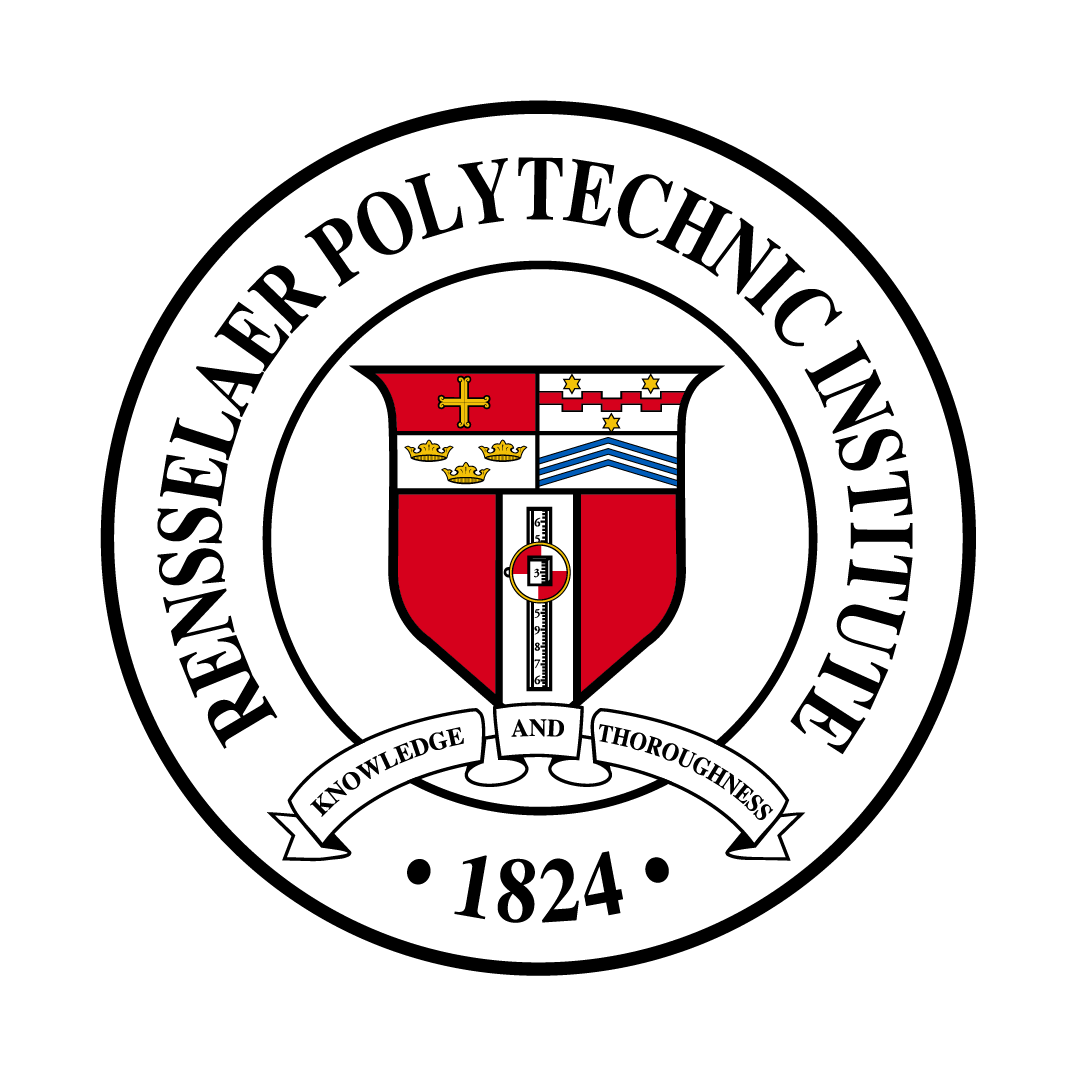
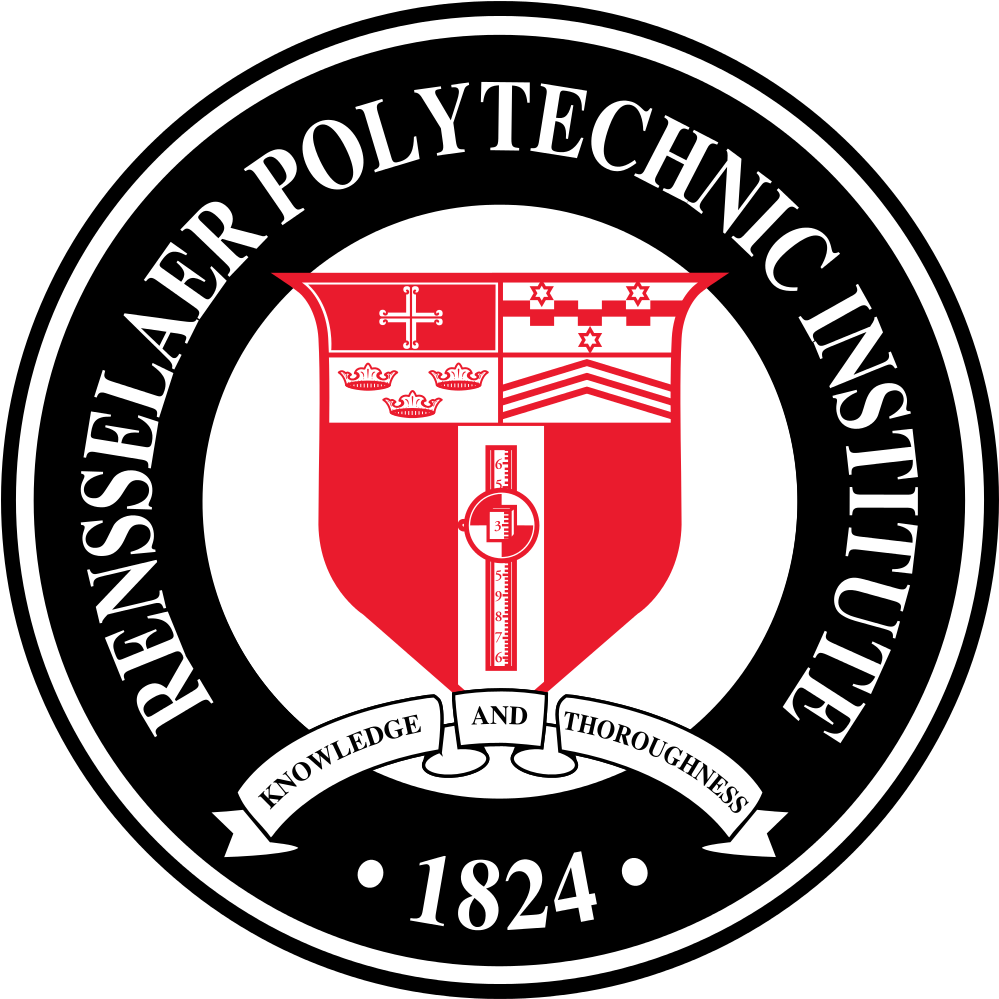
Fully Implemented Dark Mode
Now includes a toggle in the sidebar.

diff --git a/_layouts/default.html b/_layouts/default.html
@@ -11,6 +11,9 @@
             // grab or default to 'light'
             const m = localStorage.getItem('site_mode') || 'light';
             document.documentElement.setAttribute('data-theme', m);
+            document.getElementById('site-logo').src = (m === 'dark')
+            ? document.getElementById('site-logo').dataset.dark
+            : document.getElementById('site-logo').dataset.light;
             })();
         </script>
 
@@ -52,7 +55,6 @@
 
     <body>
         <a href="https://github.com/Submitty" class="github-corner" aria-label="View Submitty on Github"><svg width="80" height="80" viewBox="0 0 250 250" style="fill:#0a6496; color:#fff; position: absolute; top: 0; border: 0; right: 0;" aria-hidden="true"><path d="M0,0 L115,115 L130,115 L142,142 L250,250 L250,0 Z" class="octo-background"></path><path d="M128.3,109.0 C113.8,99.7 119.0,89.6 119.0,89.6 C122.0,82.7 120.5,78.6 120.5,78.6 C119.2,72.0 123.4,76.3 123.4,76.3 C127.3,80.9 125.5,87.3 125.5,87.3 C122.9,97.6 130.6,101.9 134.4,103.2" fill="currentColor" style="transform-origin: 130px 106px;" class="octo-arm"></path><path d="M115.0,115.0 C114.9,115.1 118.7,116.5 119.8,115.4 L133.7,101.6 C136.9,99.2 139.9,98.4 142.2,98.6 C133.8,88.0 127.5,74.4 143.8,58.0 C148.5,53.4 154.0,51.2 159.7,51.0 C160.3,49.4 163.2,43.6 171.4,40.1 C171.4,40.1 176.1,42.5 178.8,56.2 C183.1,58.6 187.2,61.8 190.9,65.4 C194.5,69.0 197.7,73.2 200.1,77.6 C213.8,80.2 216.3,84.9 216.3,84.9 C212.7,93.1 206.9,96.0 205.4,96.6 C205.1,102.4 203.0,107.8 198.3,112.5 C181.9,128.9 168.3,122.5 157.7,114.1 C157.9,116.9 156.7,120.9 152.7,124.9 L141.0,136.5 C139.8,137.7 141.6,141.9 141.8,141.8 Z" fill="currentColor" class="octo-body"></path></svg></a>
-        <button id="dark-mode-toggle" onClick="changeMode()">Dark Mode Toggle</button>
         <header class='main-nav'>
             <h1>
               <button type="button" class="open-nav" id="open-nav">
@@ -74,8 +76,7 @@
                 <input type="submit" value="Search" style="display: none;">
             </form>
             <div id="nav-tree" class="menus medbg noxscroll mobile-invisible mobile-toggle">
-              <div id="nav-tree-contents" class="medbg noxscroll mobile-invisible mobile-toggle">
-              </div>
+              <div id="nav-tree-contents" class="medbg noxscroll mobile-invisible mobile-toggle"></div>
               <div>&nbsp;</div>
             </div>
             <script type="text/javascript">
@@ -83,6 +84,20 @@
               $(document).ready(function(){initNavTree('{{page.url}}',''); });
               /* @license-end */
             </script>
+            <div class="dark-mode-container mobile-invisible mobile-toggle">
+                <label class="dark-mode-switch">
+                    <input type="checkbox" id="dark-mode-toggle" />
+                    <span class="slider">
+                        <!-- actual image instead of pseudo-element -->
+                        <img
+                        id="dark-mode-icon"
+                        data-light="/images/sun_black.png"
+                        data-dark="/images/moon_white.png"
+                        alt="mode icon"
+                        />
+                    </span>
+                </label>
+            </div>
         </header>
         <section class="main">
             <div class="page-header">

diff --git a/_sass/_dark-mode.scss b/_sass/_dark-mode.scss
@@ -1,42 +1,83 @@
+// This page overrides all of the existing colors on the site with
+// dynamic CSS variables.
+
 @import "colors";
 
-:root[data-theme="dark"] {
-    body {
-        background-color: var(--body-bg);
-    }
+body {
+    background-color: var(--body-bg);
+}
 
-    header {
-        background-color: var(--nav-bg);
-    }
+header.main-nav {
+    background-color: var(--nav-bg);
+    display: flex;
+    flex-direction: column;
+}
 
-    a {
-        color: var(--content-color);
-    }
+a {
+    color: var(--link-color);
+}
 
-    h2 {
-        color: var(--content-color);
-    }
+a:hover {
+    color: var(--standard-black) !important;
+}
 
-    h3 {
-        color: var(--content-color);
-    }
+.page-header h2 {
+    color: var(--page-header);
+}
 
-    #nav-tree .selected {
-        background-color: #535353;
-    }
+h2 {
+    color: var(--content-color);
+}
 
-    #nav-tree .selected a {
-        color: var(--content-color);
-    }
+h3 {
+    color: var(--content-color);
+}
 
-    .arrow {
-        color: var(--content-color);
-    }
+h4 {
+    color: var(--content-color);
+}
 
-    #search-input {
-        background-color: #535353;
-        color: var(--content-color);
-    }
+#nav-tree .selected {
+    background-color: var(--nav-selected) !important;
+}
+
+#nav-tree .selected a {
+    color: var(--content-color) !important;
+    text-shadow: none !important;
+    font-weight: bold;
+}
+
+.arrow {
+    color: var(--content-color) !important;
+}
+
+#search-input {
+    background-color: var(--content-bg);
+    color: var(--content-color);
+}
+
+// Inline code snippets, such as on the Contact Us page
+pre, code, tt {
+    background-color: var(--inline-code-bg);
+    color: var(--inline-code-color);
+}
+
+button {
+    background-color: transparent !important;
+}
+
+tr {
+	border-bottom: 1px solid #EEE;
+
+	&:nth-child(even) {
+		background: var(--even-table);
+	}
+}
+
+span[id^="mytag"] {
+    background-color: var(--inline-code-bg) !important;
+    color: var(--inline-code-color) !important;
+    padding: 10px;
 }
 
 *,
@@ -45,4 +86,57 @@
   transition:
     color  200ms ease-in-out,
     background-color 200ms ease-in-out;
+}
+
+.dark-mode-container {
+  margin-top: auto;
+  margin-bottom: 20px;
+  align-self: center;
+}
+
+.dark-mode-switch {
+  position: relative;
+  display: inline-block;
+  width: 50px;
+  height: 28px;
+  margin-bottom: 20px;
+  align-self: center;
+}
+
+.dark-mode-switch input {
+  opacity: 0;
+  width: 0;
+  height: 0;
+}
+
+.dark-mode-switch .slider {
+  position: absolute;
+  inset: 0;
+  cursor: pointer;
+  background-color: var(--toggle-track);
+  border-radius: 34px;
+  transition: background-color 0.3s ease;
+}
+
+.dark-mode-switch .slider img {
+  position: absolute;
+  left: 3px;
+  top: 3px;
+  width: 22px;
+  height: 22px;
+  border-radius: 50%;
+  background-color: var(--toggle-thumb);
+  box-shadow: 0 1px 3px rgba(0, 0, 0, 0.3);
+  transition: transform 0.3s ease, background-color 0.3s ease;
+  user-select: none;
+  -webkit-user-drag: none;
+  display: none;
+}
+
+.dark-mode-switch .slider img[src] {
+  display: block;
+}
+
+.dark-mode-switch input:checked + .slider img {
+  transform: translateX(22px);
 }

diff --git a/scripts/main.js b/scripts/main.js
@@ -58,43 +58,32 @@ function toggle_display(id) {
     return false;
 }
 
-function changeMode() {
+// In your main.js (replace the old `const slider = ...` logic with:)
+document.addEventListener('DOMContentLoaded', () => {
   const toggle = document.getElementById('dark-mode-toggle');
   const logo   = document.getElementById('site-logo');
-  let   saved  = localStorage.getItem('site_mode') || 'light';
-
-  if (saved !== 'dark') {
-    saved = 'dark';
-    toggle.textContent = 'Toggle Light Mode';
-  }
-  else {
-    saved = 'light';
-    toggle.textContent = 'Toggle Dark Mode';
-  }
-
-  if (logo) {
-    logo.src = (saved === 'dark')
-      ? logo.dataset.dark
-      : logo.dataset.light;
-  }
-
-  localStorage.setItem('site_mode', saved);
-  document.documentElement.setAttribute('data-theme', saved);
-}
-
-window.addEventListener('DOMContentLoaded', () => {
-  const html   = document.documentElement;
-  const toggle = document.getElementById('dark-mode-toggle');
+  const icon   = document.getElementById('dark-mode-icon');
   const saved  = localStorage.getItem('site_mode') || 'light';
-  const logo   = document.getElementById('site-logo');
 
-  html.setAttribute('data-theme', saved);
-  toggle.textContent = saved === 'dark' ? 'Light Mode' : 'Dark Mode';
+  document.documentElement.setAttribute('data-theme', saved);
+  if (logo) logo.src = saved === 'dark'
+    ? logo.dataset.dark
+    : logo.dataset.light;
+  if (icon) icon.src = saved === 'dark'
+    ? icon.dataset.dark
+    : icon.dataset.light;
+  toggle.checked = (saved === 'dark');
 
-  if (logo) {
-    logo.src = (saved === 'dark')
+  toggle.addEventListener('change', () => {
+    const mode = toggle.checked ? 'dark' : 'light';
+    localStorage.setItem('site_mode', mode);
+    document.documentElement.setAttribute('data-theme', mode);
+    if (logo) logo.src = mode === 'dark'
       ? logo.dataset.dark
       : logo.dataset.light;
-  }
+    if (icon) icon.src = mode === 'dark'
+      ? icon.dataset.dark
+      : icon.dataset.light;
+  });
 });
 

diff --git a/_sass/_colors.scss b/_sass/_colors.scss
@@ -2,21 +2,40 @@
 
 // Light theme tokens
 :root {
-  --body-bg:          #ffffff;
-  --content-bg:       #ffffff;
-  --content-color:    #222222;
-  --nav-bg:           #f6fbfe;
-  --nav-text:         #666666;
+  --body-bg:           #ffffff;
+  --content-bg:        #ffffff;
+  --link-color:        #4A4A4A;
+  --standard-black:    #000000;
+  --content-color:     #222222;
+  --nav-bg:            #f6fbfe;
+  --nav-text:          #666666;
+  --nav-selected:      #d9edf7;
   --brand-color:       #f6fbfe;
-  /* …add any others you need… */
+  --page-header:       #888888;  
+  --inline-code-color: #393318;
+  --inline-code-bg:    #F0F0F0;
+  --even-table:        #FCFCFC;
+
+  --toggle-thumb: #ffffff;
+  --toggle-track: #ccc;
 }
 
 // Dark theme overrides
 :root[data-theme="dark"] {
-  --body-bg:          #36393f;
-  --content-bg:       #36393f;
-  --content-color:    #ffffff;
-  --nav-bg:           #202225;
-  --nav-text:         #cccccc;
-  --brand-color:      #000000;
+  --body-bg:           #36393f;
+  --content-bg:        #36393f;
+  --link-color:        #bbbbbb;
+  --standard-black:    #ffffff;
+  --content-color:     #ffffff;
+  --nav-bg:            #202225;
+  --nav-text:          #cccccc;
+  --nav-selected:      #535353;
+  --brand-color:       #000000;
+  --page-header:       #999999;
+  --inline-code-color: #FFFFFF;
+  --inline-code-bg:    #535353;
+  --even-table:        #2f3137;
+
+  --toggle-thumb: #000000;
+  --toggle-track:  #4d4d4d;
 }

diff --git a/_sass/_layout.scss b/_sass/_layout.scss
@@ -15,7 +15,8 @@ body {
 		nav,
 		header > form,
 		header > ul,
-                div#nav-tree {
+        div#nav-tree,
+		.dark-mode-container {
 			display: block;
 		}
 
@@ -229,7 +230,8 @@ header {
 nav,
 header > form,
 header > ul,
-div#nav-tree {
+div#nav-tree,
+.dark-mode-container {
 	display: none;
 
 	@media (min-width: $mobile-break) {

diff --git a/_sass/_tables.scss b/_sass/_tables.scss
@@ -3,14 +3,6 @@ table {
 	margin-bottom: 1.75em;
 }
 
-tr {
-	border-bottom: 1px solid #EEE;
-
-	&:nth-child(even) {
-		background: #fcfcfc;
-	}
-}
-
 td, th {
 	padding: 8px;
 	text-align: left;
